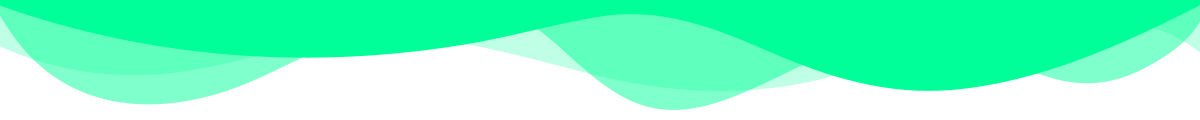
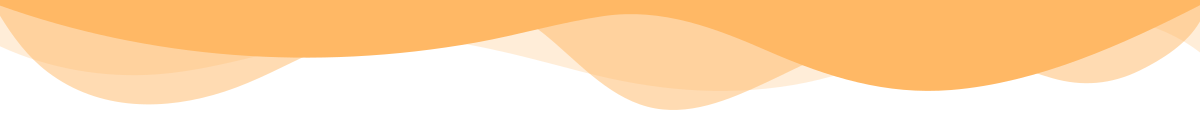
yeet

diff --git a/README.md b/README.md
@@ -2,7 +2,7 @@
 
 <p align="center">
 <b>Hello There.</b> <br>I dont know what i'm doing, but it somehow seems to work. <br>Enjoy this cute ascii face.  <br>ʕっ•ᴥ•ʔっᶠᵘᶜᵏ ʸᵒᵘ<br>
-    <img src="https://github-readme-stats.vercel.app/api/?username=wadafacc&title_color=00ff98&text_color=9f9f9f&show_icons=true&bg_color=00000000&hide_border=true&icon_color=00ff98&hide_title=true&count_private=true" />
+    <img src="https://github-readme-stats.vercel.app/api/?username=wadafacc&title_color=00ff98&text_color=9f9f9f&show_icons=true&bg_color=00000000&hide_border=true&icon_color=ffb865&hide_title=true&count_private=true" />
 
 </p>
 
